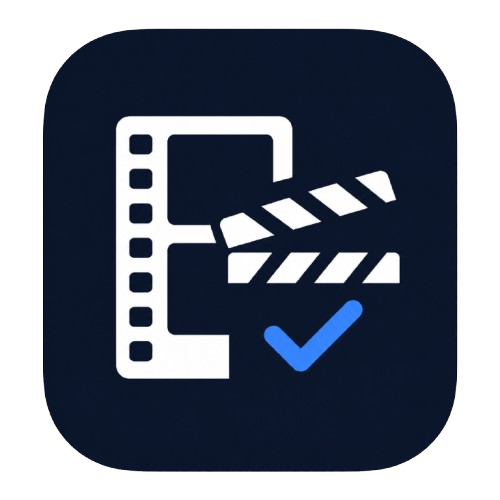
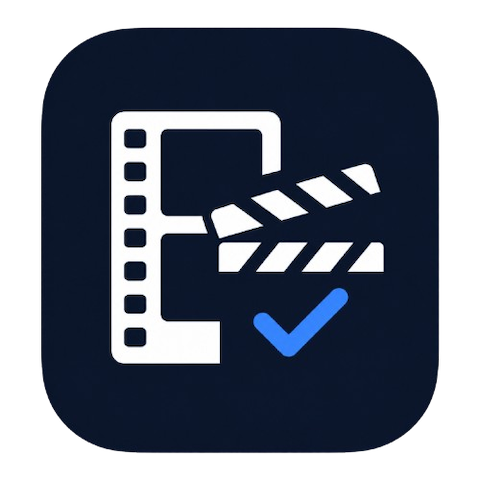
feat: Linux AppImage bundling and cross-platform fixes
- Add scripts/bundle-linux.sh to build a portable ReWatch.AppImage via linuxdeploy
- Fix missing bundle icons: apply SHIPPED to ReWatchLib, not the executable
- Pin application name to ReWatch so data dir and backup zips match across platforms
- Set window title to ReWatch instead of the executable/AppImage filename
- Filter CMake include dirs to directories only (silences gcc warnings)
- Update app icon and document Linux bundling + search pagination / IMDb lookup

diff --git a/src/main.cpp b/src/main.cpp
@@ -7,6 +7,10 @@ int main(int argc, char *argv[])
 {
 	QApplication app(argc, argv);
 
+	// Pin the name so the data dir (and thus backup zips) is "ReWatch" on every
+	// platform, instead of defaulting to the executable/AppImage filename.
+	QCoreApplication::setApplicationName("ReWatch");
+
 	QDir::setCurrent(QCoreApplication::applicationDirPath());
 
 	MainWindow window;

diff --git a/src/ui/MainWindow.cpp b/src/ui/MainWindow.cpp
@@ -16,6 +16,7 @@ static constexpr int ERROR_CARD_MARGIN = 5;
 
 MainWindow::MainWindow(QWidget *parent) : QMainWindow(parent)
 {
+	setWindowTitle("ReWatch");
 	setMinimumSize(800, 600);
 	resize(appStorage.getWindowSize().width, appStorage.getWindowSize().height);
 	setupShortcuts();

diff --git a/README.md b/README.md
@@ -9,7 +9,7 @@ A desktop app to track your movies and TV shows. Built with C++ and Qt6.
 ## Features
 
 - **Library** — Browse your movies and TV shows in a poster grid, sortable by title, release date, last viewed, or rank. Zoom the card size in or out to your preference — it's remembered across sessions.
-- **Search & add** — Search the OMDb database by title and add results to your library in one click. Results show the title and plot, and are limited to movies and TV shows.
+- **Search & add** — Search the OMDb database by title and add results to your library in one click. Results show the title and plot, and are limited to movies and TV shows. Long result lists load in pages via a *Load more results* button. You can also paste an IMDb ID — or a full IMDb URL — to jump straight to a specific title when a title search is too broad or finds nothing.
 - **Title detail view** — Click any title to open a full detail page: poster, metadata, scrollable plot, and a Watch on section with your configured streaming platform buttons.
 - **Watched tracking** — Mark titles as watched or unwatched. Filter the library to show only titles left to watch.
 - **Missing poster recovery** — If OMDb has no poster for a title, the library card shows an upload button so you can pick a local image to use instead.
@@ -51,6 +51,16 @@ To produce a standalone `.app` with Qt dependencies bundled in, use the provided
 
 This builds the binary, creates the `.app` structure, generates the icon, copies assets, runs `macdeployqt`, and cleans up the build directory. The result is a `ReWatch.app` ready to run.
 
+### Bundle (Linux AppImage)
+
+To produce a portable `.AppImage` with Qt bundled in, use the Linux script. It needs `qmake` for Qt6 in your PATH; `linuxdeploy` and its Qt plugin are downloaded automatically on first run and cached.
+
+```bash
+./scripts/bundle-linux.sh "ReWatch"
+```
+
+This builds the binary, assembles an AppDir, generates a desktop entry and icon, embeds Qt with `linuxdeploy`, and produces `ReWatch.AppImage` in the project root.
+
 ---
 
 ## Setup
@@ -61,23 +71,18 @@ On first launch, open **Settings** from the menu bar and enter your OMDb API key
 
 ## Data storage
 
-The app stores your library at:
+The app keeps everything in a single per-user data directory:
 
-```
-~/Library/Application Support/ReWatch/ReWatch.json
-```
+- **macOS** — `~/Library/Application Support/ReWatch/`
+- **Linux** — `~/.local/share/ReWatch/`
 
-Poster images are saved alongside it in:
+Inside it:
 
-```
-~/Library/Application Support/ReWatch/Posters/
-```
+- `ReWatch.json` — your library (titles, watched state, ranks, and the API key)
+- `Posters/` — poster images
+- `PlatformImages/` — streaming platform logos
 
-Streaming platform logos are saved in:
-
-```
-~/Library/Application Support/ReWatch/PlatformImages/
-```
+Export / Import bundles this whole directory into a zip, so a backup made on one platform restores cleanly on the other.
 
 ---
 